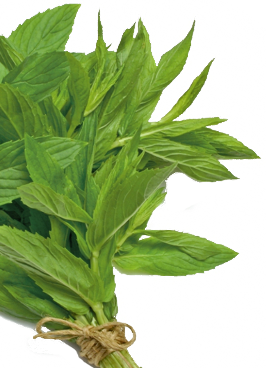
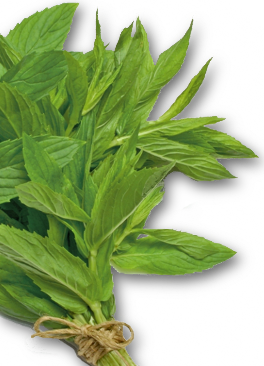
Center menu page and drop shadow on mint sprig

diff --git a/css/main.css b/css/main.css
@@ -184,7 +184,7 @@ ul {
 	width: 60%;
 	min-width: 400px;
 	height: 360px;
-	margin: 0px 25% 0px 35%;
+	margin: 0px 30% 0px 30%;
 	padding: 40px 20px 0px 20px;
 	overflow-y: scroll;
 	background-color: rgba(223,186,105, .3);
